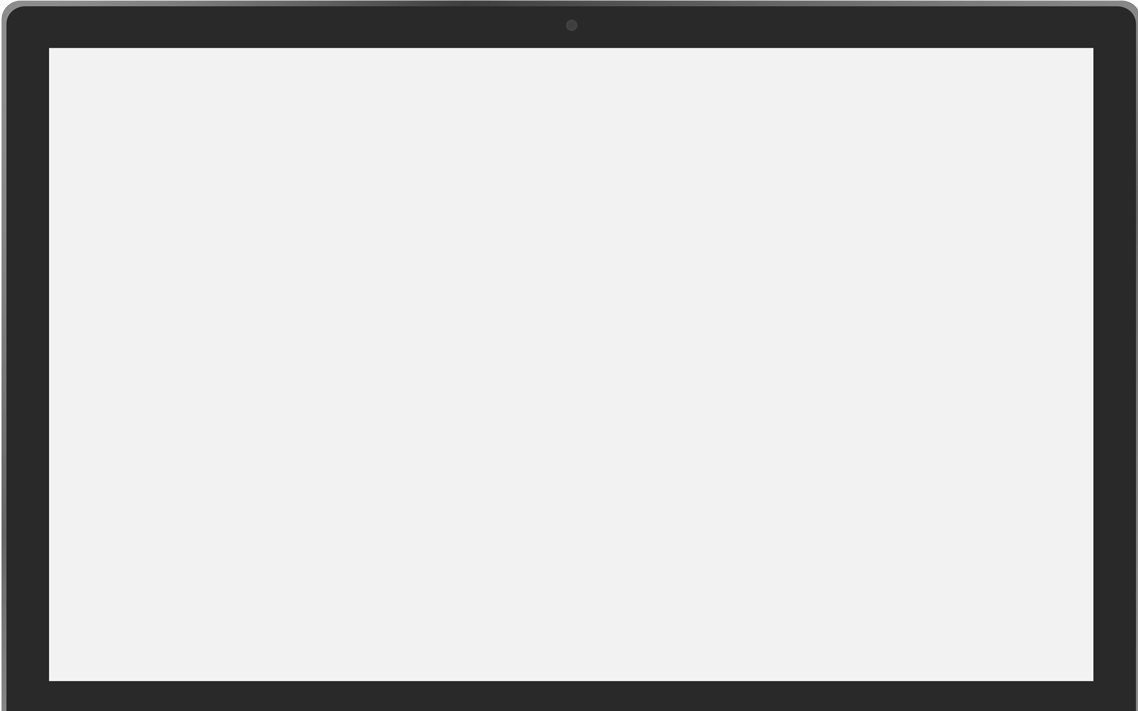
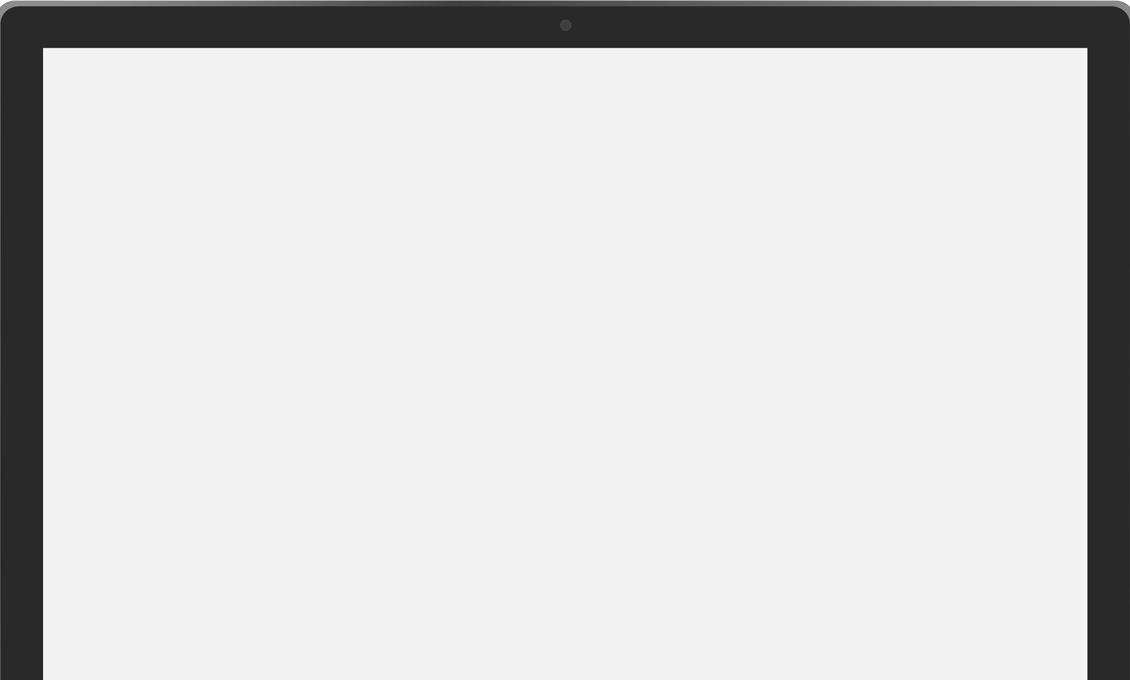
Commented out tablet bg, and fixed with css

Changed region(s): [[0.0, 0.0, 0.9602, 1.0], [0.9912, 0.0, 1.0, 1.0]]

diff --git a/css/style.css b/css/style.css
@@ -31,6 +31,15 @@ h2 {
 	height: 100%;
 	position: relative;
 }
+a {
+	color: #BEBF67;
+}
+
+a:hover {
+	color: #BEBF67;
+	text-decoration: none;
+	font-weight: 600;
+}
 
 
 /**  Page **/
@@ -120,6 +129,7 @@ h2 {
 
 #projects {
 	background-color: #F4F6F7;
+	padding-bottom: 0;
 }
 
 #projects .content {
@@ -152,45 +162,56 @@ h2 {
 #projects h5 {
 	color: #000;
 }
+
+#projects ul {
+	padding: 5px 0;
+}
+
+#projects li {
+	font-size: 0.8em;
+	font-weight: 200;
+	color: #F4F6F7;
+	
+	list-style: none;
+}
+
 #projects .line {
 	width: 40px;
 }
 
-#projects article .project-image {
-	background-image: url("../images/laptop.png");
-	background-repeat: no-repeat;
-	background-size: contain;
-	height: 500px;
-	padding: 45px;
-	
+#projects button {
+	margin: 10px 0;
 }
 
-@media only screen
-and (max-width: 480px) {
-	#projects article .project-image {
-		background-image: url("../images/laptop.png");
-		background-repeat: no-repeat;
-		background-size: contain;
-		width: 260px;
-		margin:0 auto;
-		height: auto;
-		padding: 15px;
-	}
-	
-
+#projects article .project-image {
+	/*background-image: url("../images/laptop.png");*/
+	background-repeat: no-repeat;
+	background-size: cover;
+	height: auto;
+	background-color: #292929;
+	padding: 33px 29px 1px;
+	border-bottom: 20px solid #383838;
+	border-radius: 10px;
+	box-shadow: 5px 5px 10px black;
+	margin-top: 10px;
 }
 
 @media only screen
 and (min-width: 480px) and (max-width: 768px) {
 	#projects article .project-image {
-		background-image: url("../images/laptop.png");
-		background-repeat: no-repeat;
-		background-size: contain;
-		height: 400px;
-		padding: 30px;
-	}
-	
+		padding: 24px 20px 1px;
+		border-bottom: 15px solid #383838;
+		margin-top: 20px;
+	}	
+}
 
+@media only screen
+and (max-width: 480px) {
+	#projects article .project-image {
+		padding: 12px 10px 1px;
+		border-bottom: 10px solid #383838;
+		margin-top: 20px;
+	}
 }
 
 #projects article {

diff --git a/includes/projects.php b/includes/projects.php
@@ -7,62 +7,95 @@
 
 		</header>
 	</div> <!-- content container END -->
+
+
+	<!-- Project 1 -->
 	<article>
 		<div class="container">
 			<div class="row">
 
 				<div class="col-md-4 col-xs-12">
-					<h4>Project 1</h4>
-					<h5>Sub heading</h5>
+					<h4>Logic Lead System</h4>
+					<h5>A digital handbook system</h5>
 					<img src="images/grey_line.png" class="line" alt="grey_line">
-					<p>This project is an administrator-controlled digital handbook system for guides and plugins that targets employees of a minor web company. I have developed the system from scratch in PHP and MySQL and used the Bootstrap framwork. The system has been securely developed to protected against attacks.</p><br>
-					<p>
-
-						To log in and use Logic Lead System:
-						● Employee: testuser@hotmail.com // Password: Testuser1
-						● Admin: testadmin@hotmail.com // Password: Testadmin1
-
-						Code can be found on Github:
-
-						https://github.com/Moelgaard85/LogicLeadSystem/
+					<p>This project is an administrator-controlled digital handbook system for guides and plugins that targets employees of a minor web company. I have developed the system from scratch in PHP and MySQL and used the Bootstrap framwork. The system has been securely developed to protected against attacks.</p>
+					<br>
+					<p>To log in and use Logic Lead System:</p>
+					<ul>
+						<li>Employee: testuser@hotmail.com // Password: Testuser1</li>
+						<li>Admin: testadmin@hotmail.com // Password: Testadmin1</li>
+					</ul>
+					<p>Code can be found on <a href="https://github.com/Moelgaard85/LogicLeadSystem/">Github</a>
 					</p>
-				</div>
+					<a href="#"><button type="button" class="btn btn-large btn-info">See the work</button></a>
+				</div><!-- col left description end -->
 				<div class="col-md-8 col-xs-12">
 					<div class="project-image">
-						<img src="images/logicleadsystem-770x440.jpg" class="img-responsive"></img>
+						<img src="images/logicleadsystem.jpg" class="img-responsive"></img>
 					</div>
-				</div>
-			</div>
-		</div>
-	</article>
+				</div><!-- col right image end -->
+			</div><!-- row end -->
+		</div><!-- container end -->
+	</article><!-- article end -->
+	<!-- Project 1 end -->
+
+	<!-- Project 2 -->
 	<article>
 		<div class="container">
 			<div class="row">
 
 				<div class="col-md-4 col-xs-12">
-					<h4>Project 1</h4>
-					<h5>Sub heading</h5>
+					<h4>Logic Lead System</h4>
+					<h5>A digital handbook system</h5>
 					<img src="images/grey_line.png" class="line" alt="grey_line">
-					<p>This project is an administrator-controlled digital handbook system for guides and plugins that targets employees of a minor web company. I have developed the system from scratch in PHP and MySQL and used the Bootstrap framwork. The system has been securely developed to protected against attacks.</p><br>
-					<p>
-
-						To log in and use Logic Lead System:
-						● Employee: testuser@hotmail.com // Password: Testuser1
-						● Admin: testadmin@hotmail.com // Password: Testadmin1
-
-						Code can be found on Github:
-
-						https://github.com/Moelgaard85/LogicLeadSystem/
+					<p>This project is an administrator-controlled digital handbook system for guides and plugins that targets employees of a minor web company. I have developed the system from scratch in PHP and MySQL and used the Bootstrap framwork. The system has been securely developed to protected against attacks.</p>
+					<br>
+					<p>To log in and use Logic Lead System:</p>
+					<ul>
+						<li>Employee: testuser@hotmail.com // Password: Testuser1</li>
+						<li>Admin: testadmin@hotmail.com // Password: Testadmin1</li>
+					</ul>
+					<p>Code can be found on <a href="https://github.com/Moelgaard85/LogicLeadSystem/">Github</a>
 					</p>
-				</div>
+					<a href="#"><button type="button" class="btn btn-large btn-info">See the work</button></a>
+				</div><!-- col left description end -->
 				<div class="col-md-8 col-xs-12">
 					<div class="project-image">
 						<img src="images/mountain.jpg" class="img-responsive"></img>
 					</div>
-				</div>
-			</div>
-		</div>
-	</article>
+				</div> <!-- col right image end -->
+			</div> <!-- row end -->
+		</div> <!-- container end -->
+	</article> <!-- article end -->
+	<!-- Project 2 end -->
 
+	<!-- Project 3 -->
+	<article>
+		<div class="container">
+			<div class="row">
+				<div class="col-md-4 col-xs-12">
+					<h4>Logic Lead System</h4>
+					<h5>A digital handbook system</h5>
+					<img src="images/grey_line.png" class="line" alt="grey_line">
+					<p>This project is an administrator-controlled digital handbook system for guides and plugins that targets employees of a minor web company. I have developed the system from scratch in PHP and MySQL and used the Bootstrap framwork. The system has been securely developed to protected against attacks.</p>
+					<br>
+					<p>To log in and use Logic Lead System:</p>
+					<ul>
+						<li>Employee: testuser@hotmail.com // Password: Testuser1</li>
+						<li>Admin: testadmin@hotmail.com // Password: Testadmin1</li>
+					</ul>
+					<p>Code can be found on <a href="https://github.com/Moelgaard85/LogicLeadSystem/">Github</a>
+					</p>
+					<a href="#"><button type="button" class="btn btn-large btn-info">See the work</button></a>
+				</div><!-- col left description end -->
+				<div class="col-md-8 col-xs-12">
+					<div class="project-image">
+						<img src="images/universe_bg.jpg" class="img-responsive"></img>
+					</div>
+				</div> <!-- col right image end -->
+			</div> <!-- row end -->
+		</div> <!-- container end -->
+	</article> <!-- article end -->
+	<!-- Project 3 end -->
 
 </div> <!-- #page Projects END -->  
